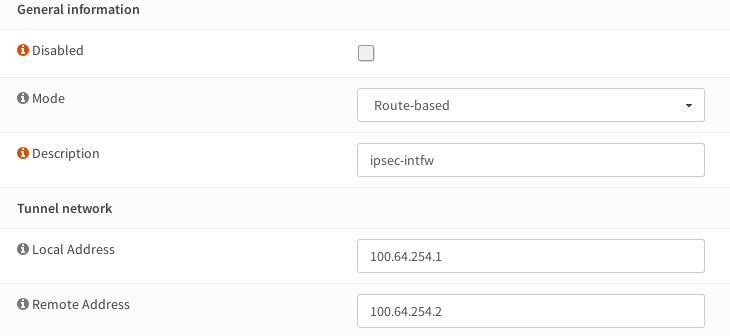
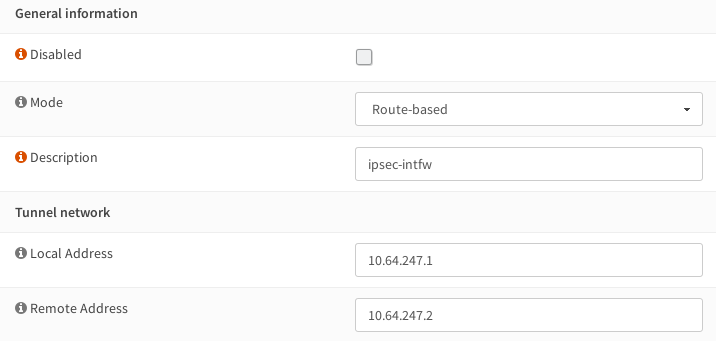
Update section on IPsec

diff --git a/lab5/report/Lab5-Mat1647244.tex b/lab5/report/Lab5-Mat1647244.tex
@@ -137,7 +137,7 @@
     \subsection{Phase 2}
     In VPN $\rightarrow$ IPsec $\rightarrow$ Tunnel Settings, create a new phase 2 configuration.
     Since \intfw must use \mainfw as the default gateway, it is not possible to use a tunnel connection: the two networks must not overlap but \texttt{0.0.0.0/0} contains all possible subnets.
-    Instead, use a route-based setup using the \texttt{100.64.254.0/30} addresses.
+    Instead, use a route-based setup using \texttt{100.64.247.0/30} addresses.
     \begin{figure}[H]
         \centering
         \includegraphics[width=\linewidth]{ipsec/phase2-general}
